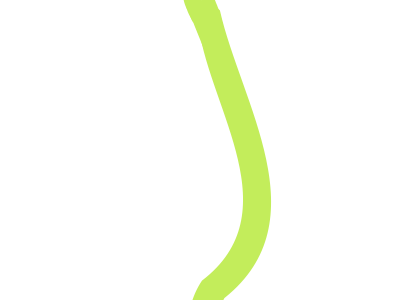
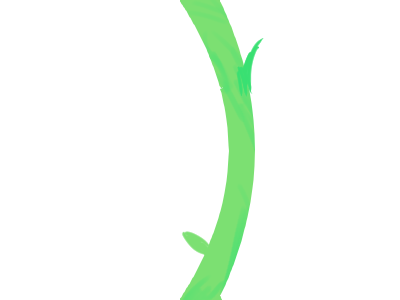
画像の切り替え

Changed region(s): [[0.45, 0.0, 0.69, 1.0]]

diff --git a/src/views/Home.vue b/src/views/Home.vue
@@ -29,7 +29,7 @@
           <div style="width: 100%">
             <div class="first-block-wrapper">
               <main-block
-                class="first-block flower-img-one"
+                class="first-block flower-img"
                 :count="item.sum"
               />
             </div>
@@ -188,8 +188,8 @@ export default defineComponent({
 }
 
 /* 言葉の数で、以下3つの画像クラスを分ける */
-.flower-img-one {
-  background-image: url("../../public/assets/Liver-leaf-23.png");
+.flower-img {
+  background-image: url("../../public/assets/flower-3.png");
   background-size: cover;
 }
 
